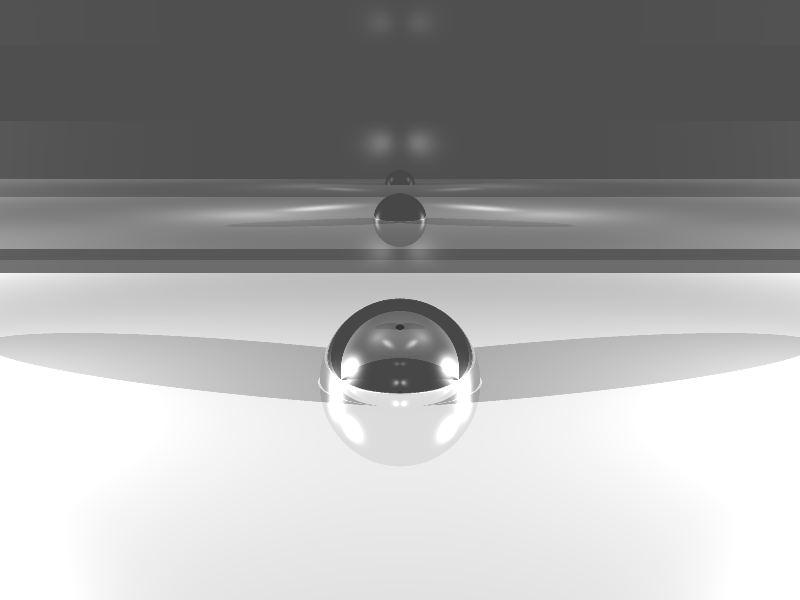
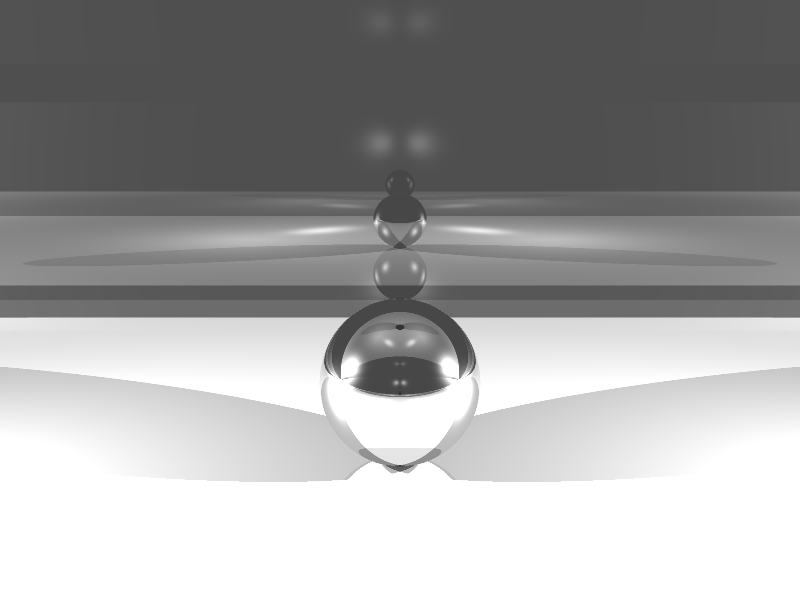
adicionando uma refração capenga, vou pausar para melhorar o leitor de objetos

diff --git a/rayTracerNonQt/rayTracerNonQt/drawableobject.cpp b/rayTracerNonQt/rayTracerNonQt/drawableobject.cpp
@@ -40,11 +40,15 @@ Color DrawableObject::getPointColor(Intersection intersection, int depth)
 
         bool success = false;
         for(itObj = objects.begin(); itObj != objects.end(); itObj++) {
-            if((*itObj) == this) {
-                continue;
-            }
+            //if((*itObj) == this) {
+            //    continue;
+            //}
             Intersection intersec = (*itObj)->hitTest(lightRay, &success);
             if(success) {
+                if((*itObj)->getObjectMaterial().getTransmissionComponent() != 0) {
+                    success = false;
+                    continue;
+                }
                 double interseDistance = (intersec.getIntersectionPoint() - actualLight.getPosition()).norm();
                 double pointDistance = (lightRay.getOrigin() - actualLight.getPosition()).norm();
                 if(interseDistance < pointDistance) {
@@ -89,7 +93,7 @@ Color DrawableObject::getPointColor(Intersection intersection, int depth)
         }
         //i = i + reflectedColor;
     }
-    Color reflectedColor, refratedColor;
+    Color reflectedColor, refractedColor;
     bool combineReflectedLight = false;
     bool combineTransmitedLight = false;
     if(depth < parentScene->getReflectionLevel()) {
@@ -134,10 +138,58 @@ Color DrawableObject::getPointColor(Intersection intersection, int depth)
         //reflectedColor.normalize(highestComponentColor);
     }
     if(depth < parentScene->getRefractionLevel()) {
+        Vector3D V = intersection.getCauseRay().getOrigin() - intersection.getIntersectionPoint();
+        V.normalize();
+        Vector3D refractedVec;// = V - intersection.getNormalVector().scalarProduct(2).scalarProduct(intersection.getNormalVector().dotProduct(V));
 
+        double cosVN = intersection.getNormalVector().dotProduct(V);
+        double senVN = sqrt(1 - cosVN*cosVN);
+        double senTN;  //transmited x normal
+        double eta = 1.0/this->objectMaterial.getTransmissionComponent();
+        double c1 = intersection.getNormalVector().dotProduct(V);;
+        double cs2 = 1 - (eta*eta) * (1 - c1*c1);
+        if(cs2 < 0) {
+            combineTransmitedLight = false;
+        } else {
+            refractedVec = V.scalarProduct(eta) + intersection.getNormalVector().scalarProduct(eta*c1 - sqrt(cs2));
+            int zBuffer = -1;
+            double highestComponentColor = 1;
+            Intersection refractedIntersection;
+            bool refractionIntersectedSomething;
+            refractedVec.normalize();
+            Ray refractedRay;
+            refractedRay.setDirection(refractedVec);
+            refractedRay.setOrigin(intersection.getIntersectionPoint());
+            //std::cout << refractedVec.toString() << std::endl;
+            for(itObj = objects.begin(); itObj != objects.end(); itObj++) {
+                //if((*itObj) == this) {
+                //    continue;
+                //}
+                refractedIntersection = (*itObj)->hitTest(refractedRay, &refractionIntersectedSomething);
+                if(refractionIntersectedSomething) {
+                    //Point3D intersecPoint = intersec.getIntersectionPoint();
+                    //std::cout << "CATCHAAA!" << std::endl;
+                    if(zBuffer > (refractedIntersection.getIntersectionPoint() - refractedRay.getOrigin()).norm() || zBuffer == -1) {
+                        //if(refractedIntersection.getT() < 0) {
+                        //    continue;
+                        //}
+                        combineTransmitedLight = true;
+                        refractedColor = (*itObj)->getPointColor(refractedIntersection, depth+1);
+                        if(refractedColor.getHighestComponent() > highestComponentColor) {
+                            highestComponentColor = reflectedColor.getHighestComponent();
+                        }
+                        zBuffer = (refractedIntersection.getIntersectionPoint() - refractedRay.getOrigin()).norm();
+                    }
+                }
+            }
+        }
     }
     if(combineReflectedLight) {
         i = i + reflectedColor * this->objectMaterial.getSpecularComponent();
+    }
+    if(combineTransmitedLight) {
+        //std::cout << refractedColor.toString() << std::endl;
+        i = i + refractedColor;
     }
 
     return i;

diff --git a/rayTracerNonQt/rayTracerNonQt/scene.cpp b/rayTracerNonQt/rayTracerNonQt/scene.cpp
@@ -223,7 +223,7 @@ Material Scene::parseMaterial(const YAML::Node& materialNode)
         objMaterial.setAmbientMaterialColor(ambientColor);
         std::cout << "Object ambient color not found; using diffuse." << std::endl;
     }
-    double ka, kd, ks, exp;
+    double ka, kd, ks, exp, refractionIndex;
     materialNode["ka"] >> ka;
     materialNode["kd"] >> kd;
     materialNode["ks"] >> ks;
@@ -232,22 +232,15 @@ Material Scene::parseMaterial(const YAML::Node& materialNode)
     objMaterial.setDiffuseComponent(kd);
     objMaterial.setSpecularComponent(ks);
     objMaterial.setSpecularExponent(exp);
-
-    double kgr, kgt;
+    objMaterial.setTransmissionComponent(refractionIndex);
     try {
-        materialNode["kgr"] >> kgr;
-        objMaterial.setReflectionComponent(kgr);
+        materialNode["refractionIndex"] >> refractionIndex;
     }
     catch (YAML::TypedKeyNotFound<std::string> e) {
-        std::cout << "Object reflection component not found; using 1." << std::endl;
-    }
-    try {
-        materialNode["kgt"] >> kgt;
-        objMaterial.setTransmissionComponent(kgt);
-    }
-    catch (YAML::TypedKeyNotFound<std::string> e) {
+        refractionIndex = 0;
         std::cout << "Object transmission component not found; using 1." << std::endl;
     }
+    objMaterial.setTransmissionComponent(refractionIndex);
 
     return objMaterial;
 }

diff --git a/rayTracerNonQt/rayTracerNonQt/box.h b/rayTracerNonQt/rayTracerNonQt/box.h
@@ -1,0 +1,28 @@
+#ifndef BOX_H
+#define BOX_H
+
+#include "drawableobject.h"
+
+
+
+class Box : public DrawableObject
+{
+public:
+    Box();
+
+    virtual Intersection hitTest(Ray ray, bool *success);
+    virtual Color mapTexture(Point3D point);
+
+    Point3D getP0() const;
+    void setP0(const Point3D &value);
+
+    Point3D getP1() const;
+    void setP1(const Point3D &value);
+
+private:
+    Point3D p0, p1;
+    Vector3D rotationVector;
+    double rotationAngle;
+};
+
+#endif // BOX_H

diff --git a/rayTracerNonQt/rayTracerNonQt/main.cpp b/rayTracerNonQt/rayTracerNonQt/main.cpp
@@ -10,9 +10,9 @@ int main()
     Scene scene;
     clock_t t1,t2;
     t1=clock();
-    scene.readScene("scene-room.yaml");
+    scene.readScene("scene-transparence.yaml");
     //code goes here
-    scene.renderScene("scene-room.png");
+    scene.renderScene("scene-transparence.png");
     std::cout << "time 2, cena renderizada" << std::endl;
     t2=clock();
     float diff = ((float)t2-(float)t1) / CLOCKS_PER_SEC;

diff --git a/rayTracerNonQt/rayTracerNonQt/box.cpp b/rayTracerNonQt/rayTracerNonQt/box.cpp
@@ -1,0 +1,35 @@
+#include "box.h"
+
+Box::Box()
+{
+
+}
+
+
+
+Intersection Box::hitTest(Ray ray, bool *success)
+{
+}
+
+Color Box::mapTexture(Point3D point)
+{
+}
+Point3D Box::getP1() const
+{
+    return p1;
+}
+
+void Box::setP1(const Point3D &value)
+{
+    p1 = value;
+}
+Point3D Box::getP0() const
+{
+    return p0;
+}
+
+void Box::setP0(const Point3D &value)
+{
+    p0 = value;
+}
+
